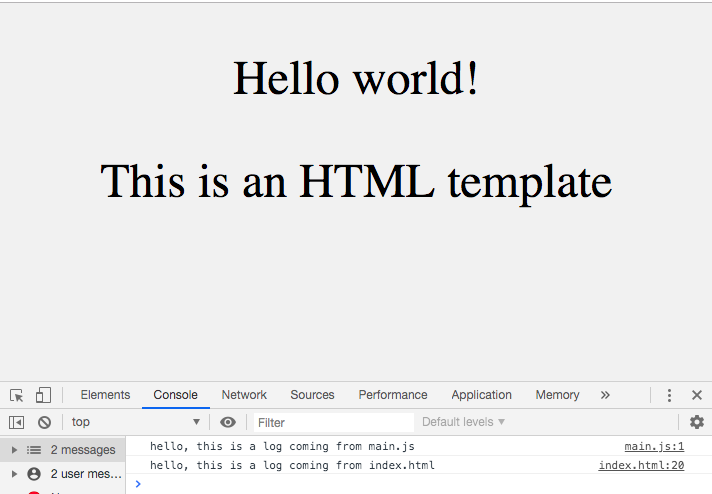
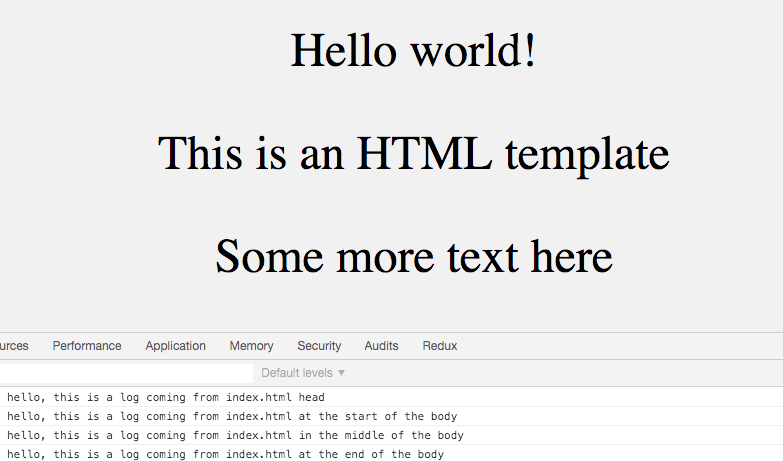
fix/admended content for adding javascript to a project

diff --git a/src/components/HowTo/components/AddJavaScript.js b/src/components/HowTo/components/AddJavaScript.js
@@ -18,7 +18,7 @@ const AddJavaScript = () => (
                 <li>Open your preferred web browser</li>
                 <li>Click on <span className='variable'>file</span> > <span className='variable'>open file</span></li>
                 <li>Find the location of the project we've just cloned and double-click on the <span className='variable'>index.html</span> file</li>
-                <li>If you open the inspector, you should be able to see two console logs</li>
+                <li>If you open the inspector, you should be able to see four console logs</li>
             </ul>
 
             <p>Let's find out where these logs are coming from.</p>
@@ -28,16 +28,50 @@ const AddJavaScript = () => (
         <section className='white-content'>
             <h1>Script Tags</h1>
             <p>Adding JavaScript code can only be done using a script tag, there are two ways we can add these tags:</p>
+                <ul>
+                    <li>Write code directly within script tags
+                        <ul>
+                            <li>Script tag in head</li>
+                            <li>Script tag in body</li>
+                        </ul>
+                    </li>
+                    <li>Link to seperate JavaScript file</li>
+                </ul>
             <br/>
-            <h4>1. Write your JavaScript code directly within the script tags</h4>
-            <p>Lines 16-18: This is where we are seeing <span className='variable'>console.log('hello, this is a log coming from index.html')</span></p>
+
+        </section>
+        <section className='white-content'>
+            <h1>Write your JavaScript code directly within the script tags</h1>
+            <h4>Script tag in head</h4>
+            <p>Lines 11-13: This is where we are seeing <span className='variable'>console.log('hello, this is a log coming from index.html head')</span></p>
+
+            <h4>Script tag in body</h4>
+            <p>This can be anywhere in the <span className='variable'>body</span> of the html</p>
+            <ul>
+                <li>At the start of the body - lines 17-19: console.log('hello, this is a log coming from index.html at the start of the body')</li>
+                <li>Anywhere in the middle of the body - lines 24-26: console.log('hello, this is a log coming from index.html in the middle of the body')</li>
+                <li>At the end of the body: lines 30-32: console.log('hello, this is a log coming from index.html at the end of the body')</li>
+            </ul>
 
             <Gist id='3d9570d44cb13490e12accb265f27647' />
-            
-            <script src="https://gist.github.com/mmagnusen/3d9570d44cb13490e12accb265f27647.js"></script>
-            <h4>2. The second (and better) way is to put your JavaScript code inside a separate file, and link to it from your index file.</h4>
-            <span className='variable'> src="main.js"</span>
-            <p>Our JavaScript code is contained within a file called <span className='variable'>main.js</span>, so we provide the name and path to this file as the source of our script at line 15</p>
+
+        </section>
+
+        <section className='white-content'>
+            <h4>The better way is to put your JavaScript code inside a separate file, and link to it from your index file.</h4>
+
+            <p>Replace the code in <span className='variable'>index.html</span> with:</p>
+            <Gist id='e86064c777d01766caf250e4743e996b' />
+    
+            <p>The link to the separate file can be put in the head (line 11) or the body (line 21) of the <span className='variable'>html.</span></p>
+            <p>Our JavaScript code is contained within files called <span className='variable'>headJavaScript.js</span> and  <span className='variable'>mainJavaScript.js</span>so we provide the name and path to these files as the source of our scripts.</p>
+        </section>
+
+        <section className='white-content'>
+            <h1>Summary</h1>
+            <p>You can place a script tag in the head, in the body or both.</p>
+            <p>You can also add a link to a separate JavaScript file, either on its own or use in combination with script tags in the head and body.</p>
+            <p>Best practice is to place your JavaScript code in a separate file, because it makes your code easier to read and work with. This should be put in the <span className='variable'>head</span>, so the JavaScript is loaded by the browser ready for any code which may rely upon it on initial load.</p>
         </section>
     </Fragment>
 );
